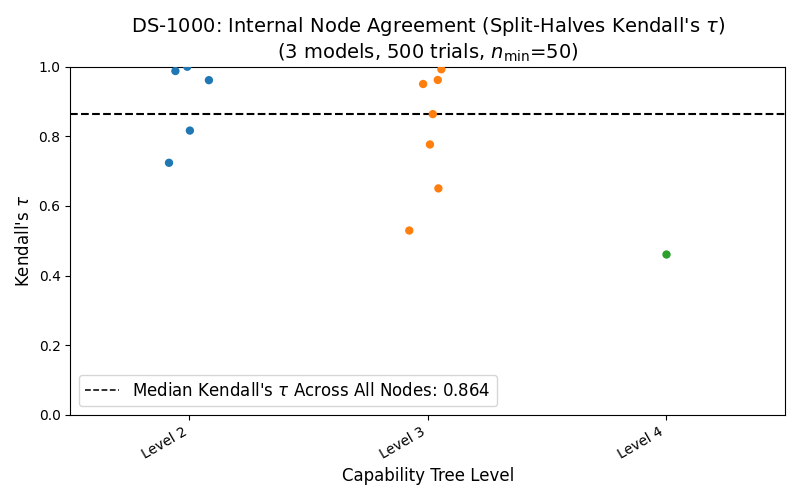
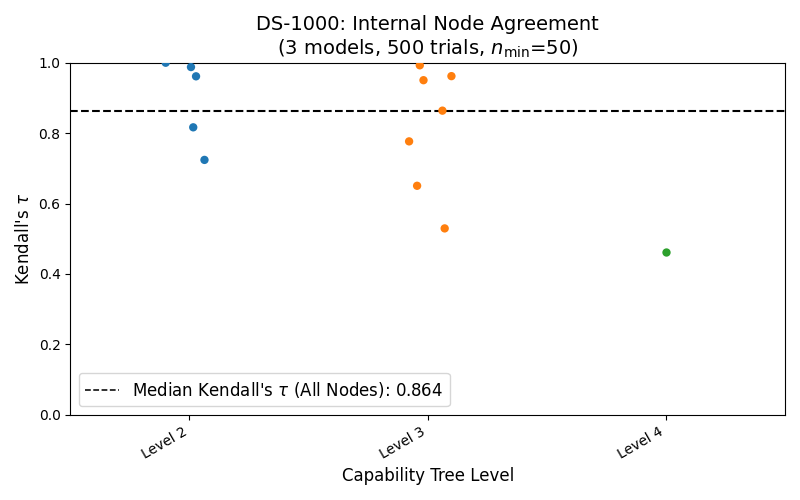
Updated plots

diff --git a/scripts/intra_node_analysis.py b/scripts/intra_node_analysis.py
@@ -178,7 +178,7 @@ def plot_per_level_split_halves_stripplot(
     ylabel = r"Kendall's $\tau$"
     min_instance_label = r"$n_{\mathrm{min}}$"
     title = (
-        f"{dataset.pretty_name}: Internal Node Agreement (Split-Halves {ylabel})"
+        f"{dataset.pretty_name}: Internal Node Agreement"
         f"\n({num_models} models, {num_trials} trials, {min_instance_label}={min_instances})"
     )
     ylim = (-1, 1) if df["mean_kendall_tau"].min() < 0 else (0, 1)
@@ -197,7 +197,7 @@ def plot_per_level_split_halves_stripplot(
         ylim=ylim,
         rotation=30,
         median=median_tau,
-        median_label=f"Median {ylabel} Across All Nodes",
+        median_label=f"Median {ylabel} (All Nodes)",
     )
 
 

diff --git a/scripts/intra_subset_analysis.py b/scripts/intra_subset_analysis.py
@@ -122,7 +122,7 @@ def plot_split_halves_histogram(
     xlabel = r"Kendall's $\tau$"
     ylabel = f"Number of {dataset.plural.capitalize()}"
     title = (
-        f"{dataset.pretty_name}: {dataset.subset_col.title()} Internal Agreement (Split-Halves {xlabel})"
+        f"{dataset.pretty_name}: {dataset.subset_col.title()} Internal Agreement"
         f"\n({num_models} models, {num_subsets} {dataset.plural}, {num_trials} trials)"
     )
     annotate = True
